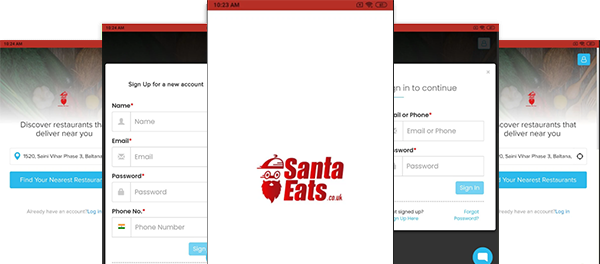
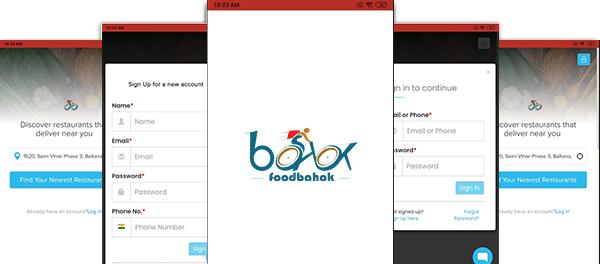
some link added

diff --git a/index.html b/index.html
@@ -10,7 +10,7 @@
     <!--- basic page needs
    ================================================== -->
     <meta charset="utf-8">
-    <title>Santa Eats</title>
+    <title>Food Bahok</title>
     <meta name="description" content="">
     <meta name="author" content="">
 
@@ -61,7 +61,7 @@
    <header id="header" class="row">   
 
    		<div class="header-logo">
-	        <a href="index.html">Santa Eats</a>
+	        <a href="index.html">Food Bahok</a>
 	    </div>
 
 	   	<nav id="header-nav-wrap">
@@ -108,7 +108,7 @@
                             <span class="icon-circle-down" aria-hidden="true"></span>
                             Download App
                         </a>
-                        <a href="https://www.youtube.com/watch?v=ND53EYiJCS4" data-lity class="button stroke">
+                        <a href="https://www.youtube.com/channel/UCzIqh0Xen-gIPPr5lb2I7pw/videos" data-lity class="button stroke">
                             <span class="icon-play" aria-hidden="true"></span>
                             Watch Video
                         </a>
@@ -385,8 +385,8 @@
                 </p>
 
                 <ul class="download-badges">
-                    <li><a href="https://apps.apple.com/gb/app/santa-eats/id1546059751" title="" class="badge-appstore"  data-aos="fade-up">App Store</a></li>
-                    <li><a href="https://play.google.com/store/apps/details?id=com.santaeats.customer" title="" class="badge-googleplay" data-aos="fade-up">Play Store</a></li>
+                    <li><a href="#" title="" class="badge-appstore"  data-aos="fade-up">App Store</a></li>
+                    <li><a href="#" title="" class="badge-googleplay" data-aos="fade-up">Play Store</a></li>
                 </ul>
 
             </div>
@@ -528,9 +528,9 @@
     <script>
           var parser = new UAParser();
 	
-            var androidDownloadLik = "https://play.google.com/store/apps/details?id=com.santaeats.customer"
-            var iosDownloadLink ="https://apps.apple.com/gb/app/santa-eats/id1546059751"
-            var orderLink = "https://www.santaeats.co.uk/en/"
+            var androidDownloadLik = "#"
+            var iosDownloadLink ="#"
+            var orderLink = "https://foodbahok.com/"
 
             if(parser.getOS().name === "Android"){
                     document.querySelector("#btnDownload").setAttribute('href',androidDownloadLik)
